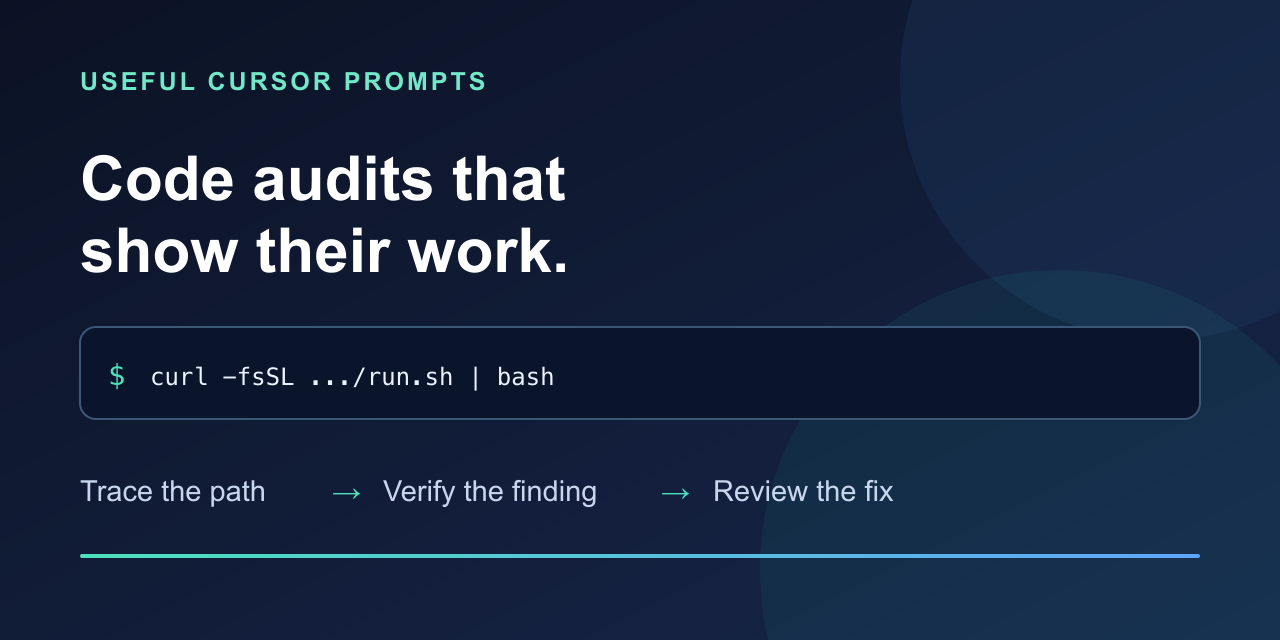
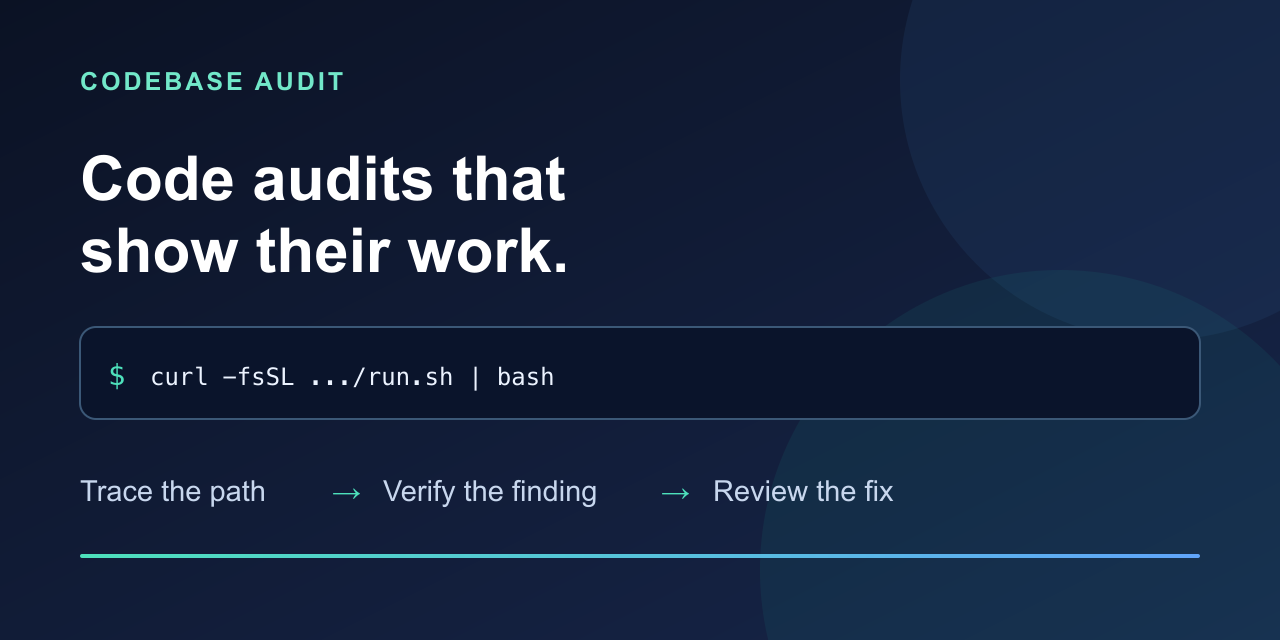
Support Codex and broaden Codebase Audit branding

Changed region(s): [[0.0625, 0.0938, 0.375, 0.1562]]

diff --git a/README.md b/README.md
@@ -1,26 +1,26 @@
-# Code audits that show their work
+# Codebase Audit
 
-**One command to audit a codebase and apply reviewable fixes with Cursor.** Run it once on a clean Git repository, or use the scheduled workflow to get a periodic pull request. The library also includes 25 focused prompts when you want to investigate one concern deeply.
+**Code audits that show their work.** One command runs an evidence-first audit with Cursor or Codex, applies reviewable fixes, and writes a report. The library also includes 25 focused prompts for investigating one concern deeply.
 
 The runner maps the application, checks relevant code and customer paths, fixes problems it can verify, runs available checks, and writes a report. It leaves high-risk or unverified changes for human review. It cannot guarantee that every bug in a codebase is found or fixed.
 
 ## Run once
 
-Install and sign in to the [Cursor CLI](https://cursor.com/docs/cli/installation), then run this **from the root of the codebase you want to improve**:
+Install and sign in to the [Cursor CLI](https://cursor.com/docs/cli/installation) or [Codex CLI](https://learn.chatgpt.com/docs/codex/cli), then run this **from the root of the codebase you want to improve**:
 
 ```bash
-curl -fsSL https://raw.githubusercontent.com/samjhill/useful-cursor-prompts/main/run.sh | bash
+curl -fsSL https://raw.githubusercontent.com/samjhill/codebase-audit/main/run.sh | bash
 ```
 
-The command requires Git and a clean working tree. It creates a `codex/audit-*` branch, applies fixes there, and writes `.code-audit/report.md`. Review the diff and report before merging. The agent can run commands and change files; use it in a repository you trust. Cursor usage charges or plan limits may apply.
+The command requires Git and a clean working tree. It creates a `codex/audit-*` branch, applies fixes there, and writes `.code-audit/report.md`. It uses Cursor when both CLIs are installed. To choose explicitly, append `-s -- --agent codex` or `-s -- --agent cursor` to the command. Review the diff and report before merging. The agent can run commands and change files; usage charges or plan limits may apply.
 
 ## Run periodically
 
-Copy [the GitHub Actions example](examples/periodic-audit.yml) into your codebase as `.github/workflows/audit.yml`, add a `CURSOR_API_KEY` repository secret, and enable **Allow GitHub Actions to create and approve pull requests** under Settings → Actions → General → Workflow permissions. The workflow runs weekly on the default branch and can also be started manually. It opens a pull request only when code changes. Review each pull request before merging. Scheduled runs use Cursor API usage and GitHub Actions minutes.
+Copy [the GitHub Actions example](examples/periodic-audit.yml) into your codebase as `.github/workflows/audit.yml`, add a `CURSOR_API_KEY` repository secret, and enable **Allow GitHub Actions to create and approve pull requests** under Settings → Actions → General → Workflow permissions. This scheduled example uses Cursor. It runs weekly on the default branch and can also be started manually. It opens a pull request only when code changes. Review each pull request before merging. Scheduled runs use Cursor API usage and GitHub Actions minutes.
 
 ## Use a focused prompt
 
-Open the repository in Cursor, copy one prompt into Agent chat, and fill in any bracketed placeholders. For example, the [customer journey audit](customer/customer-journey-audit.md) asks for `[APPLICATION]`, `[START]`, `[KEY STEPS]`, and `[SUCCESS OUTCOME]`. Check the cited files and reproductions before acting on a finding.
+Open the repository in your coding agent, copy one prompt into its chat, and fill in any bracketed placeholders. For example, the [customer journey audit](customer/customer-journey-audit.md) asks for `[APPLICATION]`, `[START]`, `[KEY STEPS]`, and `[SUCCESS OUTCOME]`. Check the cited files and reproductions before acting on a finding.
 
 For a quick technical pass, try [dead code](code/dead-code.md). For a sensitive workflow, start with the read-only [billing lifecycle](code/backend/billing-lifecycle-audit.md) or [security](security/security-audit.md) audit.
 
@@ -70,9 +70,9 @@ The older [code security pass](code/security-audit.md) is a short fix-oriented c
 - Give the agent relevant product docs, fixtures, or incident details when you have them. Remove customer data and secrets first.
 - Treat file references and line numbers as leads to inspect. Reproduce high-impact findings with tests, mocks, or sandbox data.
 - For prompts that allow edits, review the plan and diff. Run the repository's checks and verify user-visible behavior before merging.
-- Report false positives and improvements through [issues](https://github.com/samjhill/useful-cursor-prompts/issues) or [a pull request](CONTRIBUTING.md).
+- Report false positives and improvements through [issues](https://github.com/samjhill/codebase-audit/issues) or [a pull request](CONTRIBUTING.md).
 
-## Cursor Automations
+## Other automation options
 
 [Cursor Automations](https://cursor.com/docs/cloud-agent/automations) can run a focused audit on a schedule or repository event. Paste the prompt into an automation, point it at the target repository, and keep the first run read-only. Review its findings before enabling code changes or pull requests. Cloud runs can incur model usage costs.
 

diff --git a/launch/README.md b/launch/README.md
@@ -4,9 +4,9 @@ Publish after the one-command runner is on `main` and has been tested in a dispo
 
 ## GitHub repository settings
 
-**Description:** One command to audit a codebase with Cursor, apply reviewable fixes, and run it periodically.
+**Description:** One command to audit a codebase with Cursor or Codex, apply reviewable fixes, and run it periodically.
 
-**Topics:** `cursor`, `cursor-ai`, `ai-coding`, `code-audit`, `developer-tools`, `automation`, `code-quality`
+**Topics:** `code-audit`, `ai-coding`, `developer-tools`, `automation`, `code-quality`, `cursor`, `codex`
 
 **Social preview:** Upload `assets/social-preview.png` in Settings → General → Social preview. GitHub does not set this image from a file in the repository.
 
@@ -14,15 +14,15 @@ Publish after the one-command runner is on `main` and has been tested in a dispo
 
 > Working on a production AI product taught me that "green" can still mean the customer outcome failed: a job was queued but never delivered, a mocked test passed while the live path broke, a source was stale, or a notification claimed success too early. I built a repeatable code audit workflow around a stricter standard: trace the real path, separate confirmed failures from guesses, reproduce what matters, and make the smallest fix.
 >
-> The new runner is one command in a clean Git repo. It asks Cursor to audit the application, apply fixes it can verify, run available checks, and leave a report plus a reviewable branch. There's also a scheduled GitHub Actions example that opens a PR when it changes code.
+> Codebase Audit is one command in a clean Git repo. It runs with Cursor or Codex, applies fixes it can verify, runs available checks, and leaves a report plus a reviewable branch. There's also a scheduled GitHub Actions example for Cursor that opens a PR when it changes code.
 >
 > The focused prompts are still there for billing, security, customer journeys, infrastructure, and code quality. I'd especially like feedback on false positives or places where the workflow missed an important path.
 >
-> https://github.com/samjhill/useful-cursor-prompts
+> https://github.com/samjhill/codebase-audit
 
 ## Short developer-community post
 
-> I made a one-command Cursor audit runner and a library of focused prompts. It traces code paths, applies small verified fixes, runs checks, and writes a report on a branch for review. Scheduled runs can open a PR. The design principle: code evidence before confident-sounding advice. Feedback and counterexamples welcome: https://github.com/samjhill/useful-cursor-prompts
+> I made Codebase Audit: one command for Cursor or Codex to trace code paths, apply small verified fixes, run checks, and write a report on a reviewable branch. The design principle: code evidence before confident-sounding advice. Feedback and counterexamples welcome: https://github.com/samjhill/codebase-audit
 
 ## Follow-up post after a verified result
 
